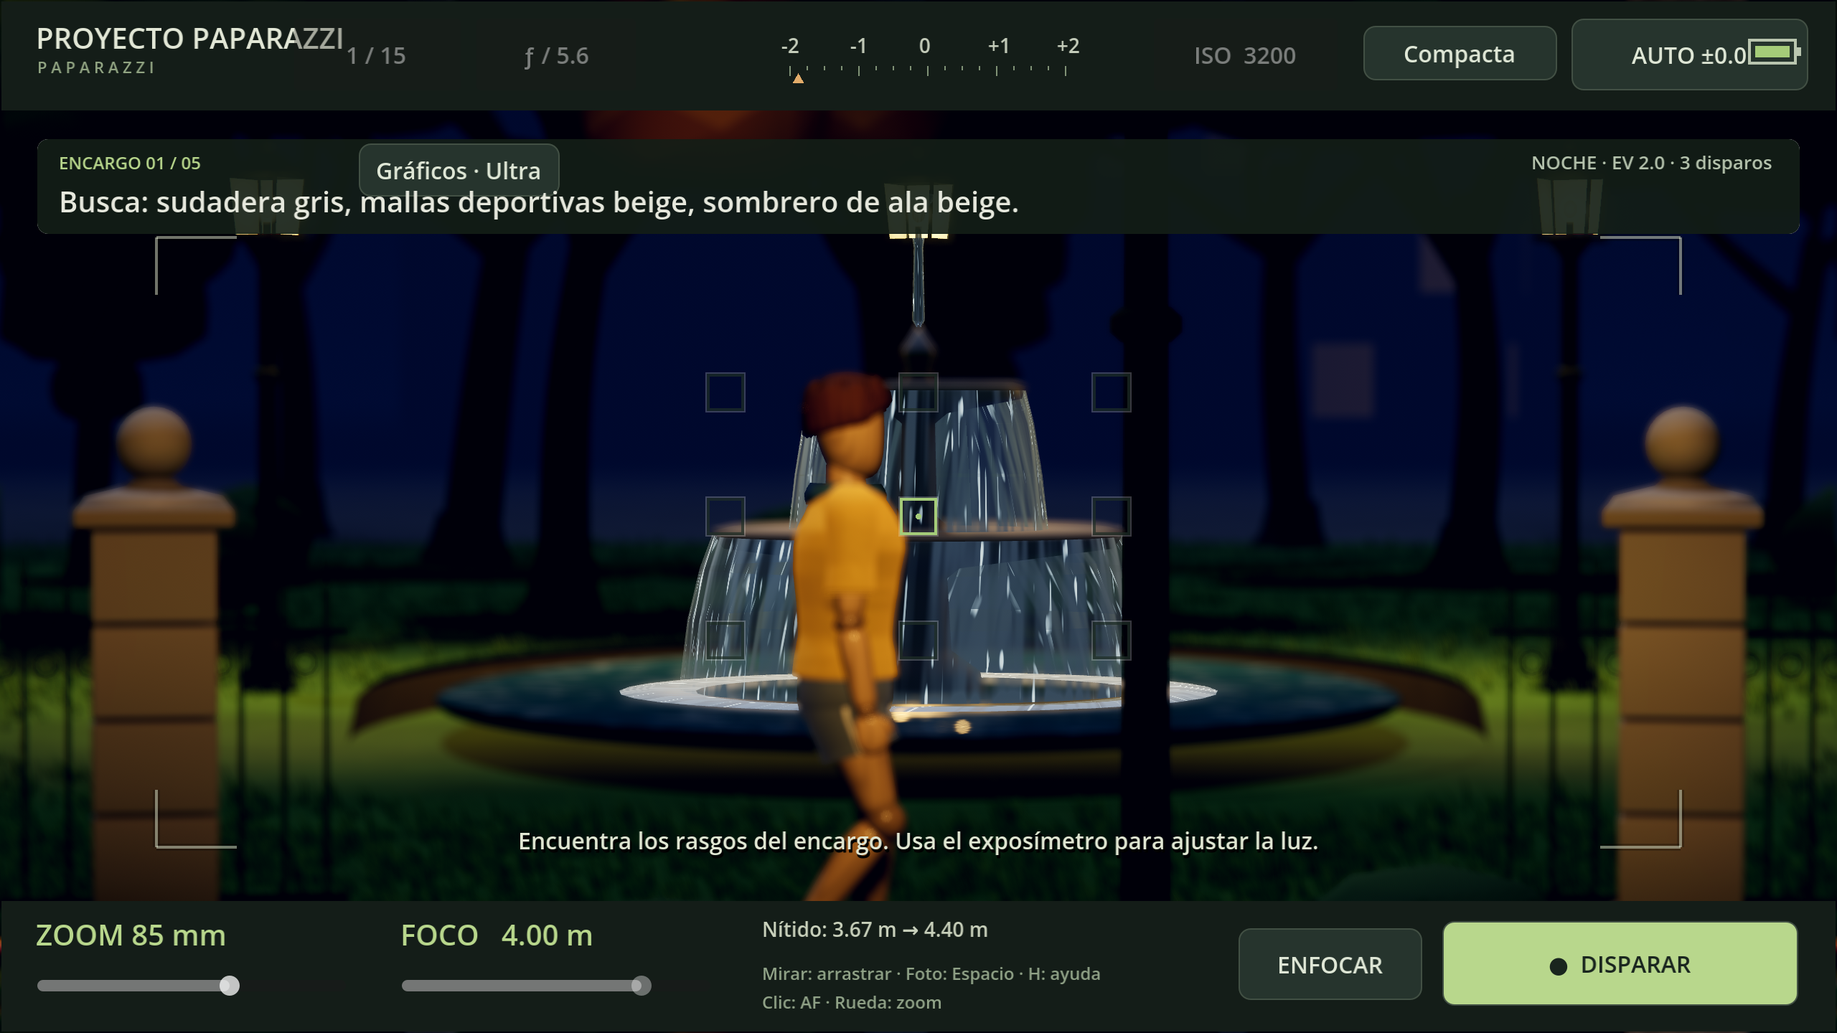
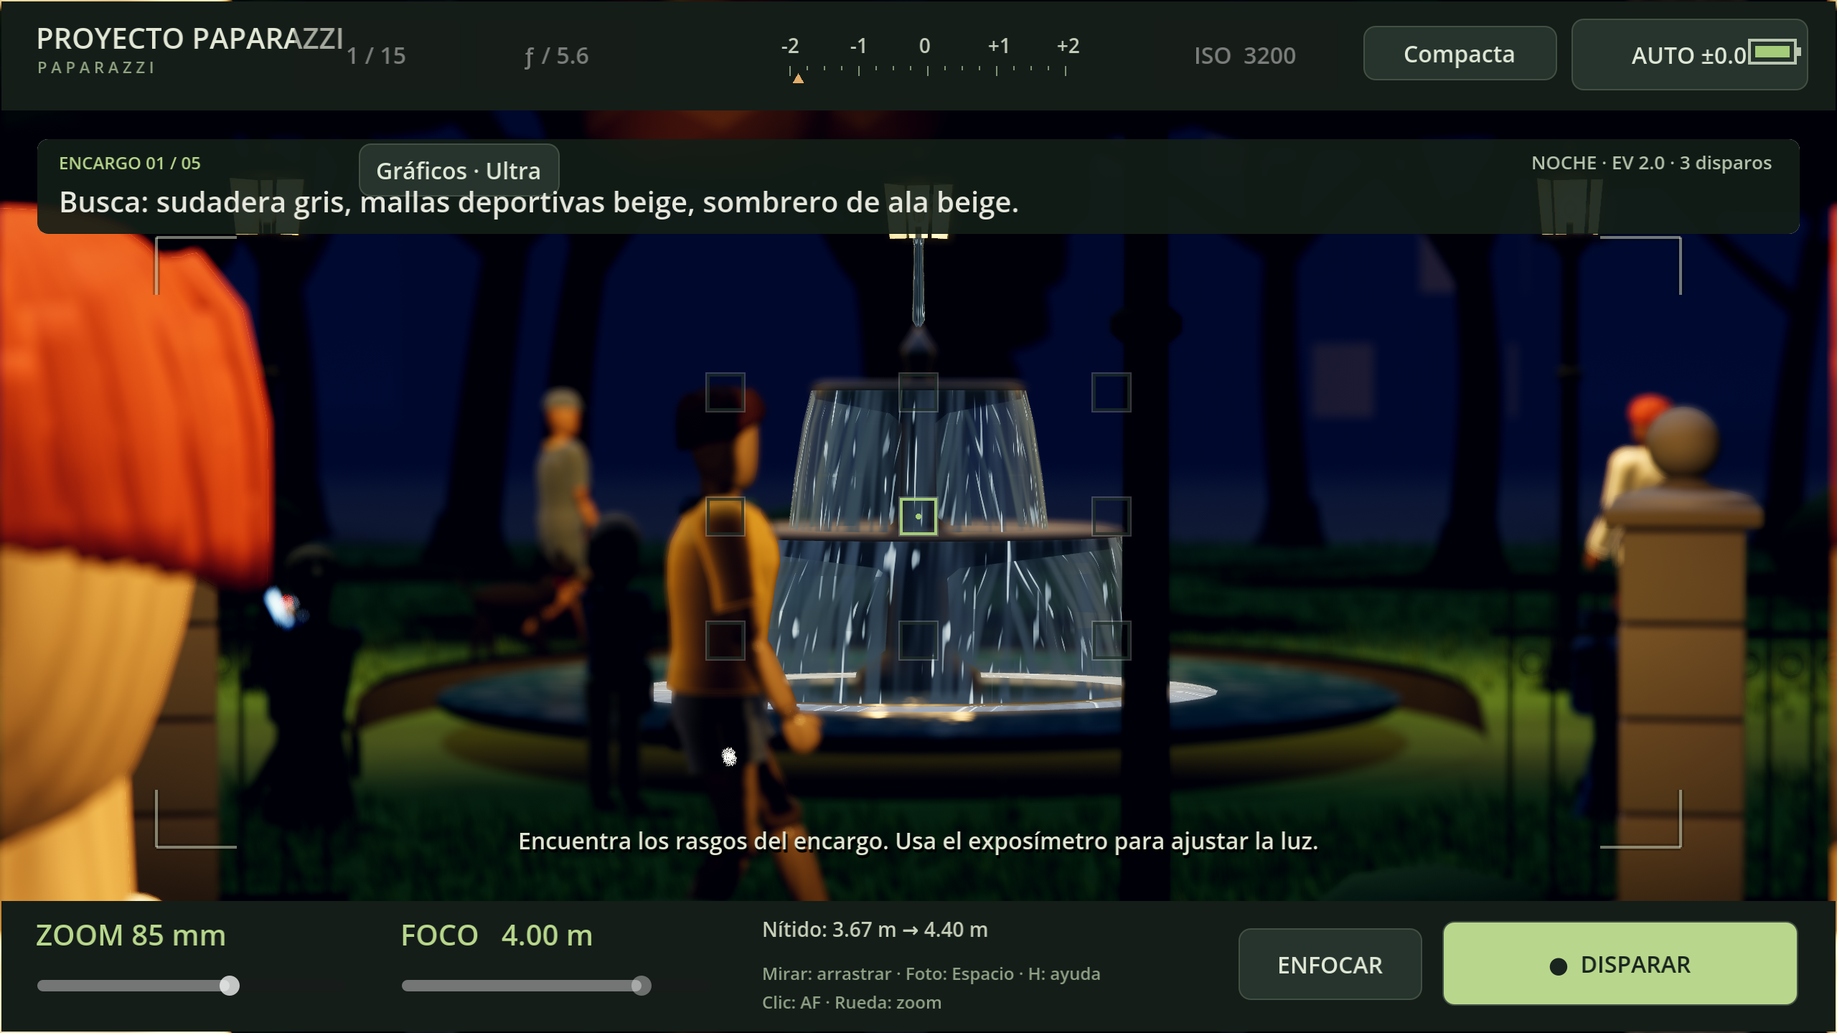
feat: palomas nocturnas, migas, niño con balón, falda sentada y vídeo de evidencias con vida
- Palomas duermen en los árboles de noche; migas al echar de comer
- Figurante niño jugando con un balón; pícnic, turista y balón se recogen de noche
- La falda sentada relaja sus muelles y cae entre las rodillas; periódico sujeto por los bordes
- capture_video.sh: tres secuencias de vida del parque, audio del juego bajo la música,
  --disable-vsync; capture_ultra.sh con tres tomas nuevas; evidencias regeneradas
- test_crowd mide el reparto de estados; test_park_life comprueba la noche

diff --git a/docs/TESTS_Y_VERIFICACION.md b/docs/TESTS_Y_VERIFICACION.md
@@ -59,8 +59,8 @@ Los cuatro perfiles de escritorio usan el renderizador `forward_plus` (`project.
 | Suite | Comando | Qué valida | Línea de salida |
 |---|---|---|---|
 | **Navegación** | `godot-4 --path . --script tests/test_navigation.gd` | Cruce en sentidos opuestos en el carril 1, adelantamiento de un corredor a un caminante y desvío ante un obstáculo estático | `NAVIGATION TESTS: N checks, N failures` |
-| **Multitud (60 s)** | `~/bin/godot-4-fp --path . --disable-vsync --script tests/test_crowd.gd` | 1.800 pasos a 30 Hz con los 21 viandantes: la orientación gira como mucho $125^\circ/\text{s}$ (sin saltos), nadie invierte su desplazamiento lateral dos veces en menos de 1,5 s (sin temblequeo), dos caminantes nunca quedan a menos de 0,42 m y nadie sigue atascado al final. Con `CROWD_DEBUG=1` imprime cada inversión rápida | `CROWD: max turn …°/s, worst quick lateral reversals …, min gap … m, mean walking speed … m/s, jammed …` y `CROWD TESTS: N checks, N failures` |
-| **Vida en el parque** | `~/bin/godot-4-fp --path . --disable-vsync --script tests/test_park_life.gd` | Siguen siendo 21 viandantes; figurantes fuera de la lista, sin colisionadores y más allá de 12,8 m también andando; palomas sin colisionadores, baratas y en el suelo; perro con dueño, con colisionador fuera de la capa 2 y etiquetado, dentro de la correa; ciclo completo del banco (acercarse, sentarse mirando al camino con la cadera en el asiento, levantarse y liberarlo) sin teletransportes (< 6 cm por fotograma); dos caminantes que se cruzan se paran a charlar frente a frente; cada actividad muestra su objeto de mano, sin colisionadores, y lo oculta al acabar; la luz del móvil no proyecta sombras. Con `LIFE_DEBUG=1` traza la aproximación al banco | `PARK LIFE TESTS: N checks, N failures` |
+| **Multitud (60 s)** | `~/bin/godot-4-fp --path . --disable-vsync --script tests/test_crowd.gd` | 1.800 pasos a 30 Hz con los 21 viandantes: la orientación gira como mucho $125^\circ/\text{s}$ (sin saltos), nadie invierte su desplazamiento lateral dos veces en menos de 1,5 s (sin temblequeo), dos caminantes nunca quedan a menos de 0,42 m, nadie sigue atascado al final y al menos el 60 % del tiempo la gente camina (imprime el reparto de estados). Con `CROWD_DEBUG=1` imprime cada inversión rápida | `CROWD: max turn …°/s, worst quick lateral reversals …, min gap … m, mean walking speed … m/s, jammed …` y `CROWD TESTS: N checks, N failures` |
+| **Vida en el parque** | `~/bin/godot-4-fp --path . --disable-vsync --script tests/test_park_life.gd` | Siguen siendo 21 viandantes; figurantes fuera de la lista, sin colisionadores y más allá de 12,8 m también andando; palomas sin colisionadores, baratas y en el suelo; perro con dueño, con colisionador fuera de la capa 2 y etiquetado, dentro de la correa; ciclo completo del banco (acercarse, sentarse mirando al camino con la cadera en el asiento, levantarse y liberarlo) sin teletransportes (< 6 cm por fotograma); dos caminantes que se cruzan se paran a charlar frente a frente; cada actividad muestra su objeto de mano, sin colisionadores, y lo oculta al acabar; la luz del móvil no proyecta sombras; de noche las palomas duermen en los árboles, se recogen pícnic, turista y balón y las pantallas brillan al máximo. Con `LIFE_DEBUG=1` traza la aproximación al banco | `PARK LIFE TESTS: N checks, N failures` |
 | **Atascos (20 s)** | `godot-4 --path . --script tests/simulate_jams.gd` | 400 pasos a $\Delta t = 0.05\text{ s}$ sin jugador. Éxito: **0 viandantes con `stuck_time > 0.8 s`** | `Deadlocked pedestrians (stuck_time > 0.8s): N` |
 | **Expansión** | `godot-4 --path . --script tests/test_expansion.gd` | Pantalla de encargo, ropa deportiva de corredores, nubes y EV, bloqueo de ISO con carrete y sandbox. Guarda capturas en `/tmp/paparazzi-*.png` | `EXPANSION TESTS: N checks, N failures` |
 | **Sesión completa** | `godot-4 --path . --script tests/test_game.gd` | 5 encargos, entrada, disparo, revelado, flujo de pantallas, **VRAM del perfil** (60.000.000 bytes en `gl_compatibility`, 8 GiB en Forward+), perfil inicial y nivel de detalle según el renderizador, superficies del parque fusionado (≤ 40 en `lo`, ≤ 80 en `hd` por el suelo texturizado) y suelo texturizado solo en `hd`. Guarda capturas en `/tmp/paparazzi-*.png` | `SESSION VIDEO MEMORY: …` y `GAME TESTS: N checks, N failures` |
@@ -106,8 +106,8 @@ Se pasan tras `--` (`godot-4 --path . -- <opción>`):
 | `capture_characters.gd` | `~/bin/godot-4-fp --path . --disable-vsync --rendering-method forward_plus --resolution 800x1000 --script tools/capture_characters.gd -- [--only=torsos,cabezas] [--out=<dir>]` | Hojas de modelado de personajes en `docs/evidencias/personajes_modelado/`: catálogo por ranura en cuatro vistas, perfiles, articulaciones en marcha, ciclos, sentado, `09_dinamica` (andar y pararse en seco, para el movimiento de falda, pelo y bolso) y `10_actividades` (posturas y objetos de mano de la vida en el parque). Deja reposar los muelles antes de cada vista. **Con la ventana tapada en Wayland se cuelga si no se pasa `--disable-vsync`** (el compositor deja de dar fotogramas). |
 | `audio/build_ambience.py` | `python3 tools/audio/build_ambience.py` | Sintetiza el sonido ambiente en `assets/audio/ambiente/` (pájaros, fuente, grillos, viento, ciudad, zureo y aleteo; WAV mono de 22,05 kHz). Requiere numpy y scipy. Ver [ESCENARIO_Y_RENDIMIENTO.md §3.4](ESCENARIO_Y_RENDIMIENTO.md). |
 | `blender/build_characters.py` | `blender -b --factory-startup -P tools/blender/build_characters.py -- [--only <perfil>] [--slots <ranuras>]` | Genera maniquíes, ropa, pelucas y accesorios de escritorio en `data/piezas_hd/` ([futuro/18](futuro/18_PERSONAJES_BLENDER.md)). La simulación de tela de la falda hace que los cuatro perfiles tarden unos 2,5 min. |
-| `capture_video.sh` | `./tools/capture_video.sh [--only 1,3] [--res 1920x1080] [--out <mp4>]` | **Vídeo de evidencias bajo demanda, solo para cambios grandes.** Graba 8 secuencias de 15 s con el Movie Maker de Godot (`--write-movie`, 30 FPS fijos: el resultado no depende de la velocidad del equipo) en día, hora dorada y noche, con gran angular, teleobjetivo siguiendo a un viandante, zoom y paneos, y una última con la **telemétrica de 90 mm en enfoque manual**: gira el anillo hasta alinear la imagen partida, mide la luz del sujeto, dispara y muestra el revelado puntuado (94/100 en la prueba). Las monta con ffmpeg (libx264) en un MP4 rotulado de 2 min en `build/video/` (ignorado por git), con la **música de fondo del proyecto** (`assets/audio/musica_videos.mp3`, o la variable `MUSIC`) recortada a la duración del vídeo con fundido de entrada de 1 s y de salida en los últimos 10 s. Tarda unos 6 min. |
-| `capture_ultra.sh` | `./tools/capture_ultra.sh` | Capturas de Ultra a 2560 × 1440 en `docs/evidencias/ultra/` (lo llama `run_evidence.sh`; se omite si no hay Godot con Vulkan en `GODOT_FP` o `~/bin/godot-4-fp`). |
+| `capture_video.sh` | `./tools/capture_video.sh [--only 1,3] [--res 1920x1080] [--out <mp4>]` | **Vídeo de evidencias bajo demanda, solo para cambios grandes.** Graba 8 secuencias de 15 s con el Movie Maker de Godot (`--write-movie`, 30 FPS fijos: el resultado no depende de la velocidad del equipo) en día, hora dorada y noche, con gran angular, teleobjetivo siguiendo a un viandante y paneos; tres de ellas enseñan la **vida del parque** (bancos, palomas y perro con `--advance`; figurantes de la pradera a 70 mm; móviles que iluminan caras de noche con `--activity=movil`), y la última usa la **telemétrica de 90 mm en enfoque manual**: gira el anillo hasta alinear la imagen partida, mide la luz del sujeto, dispara y muestra el revelado puntuado (94/100 en la prueba). Las monta con ffmpeg (libx264) en un MP4 rotulado de 2 min en `build/video/` (ignorado por git), con la **música de fondo del proyecto** (`assets/audio/musica_videos.mp3`, o la variable `MUSIC`) recortada a la duración del vídeo con fundido de entrada de 1 s y de salida en los últimos 10 s, mezclada sobre el sonido del juego (ambiente del parque y clic del obturador; el autofoco guionizado no pita). Tarda unos 6 min. |
+| `capture_ultra.sh` | `./tools/capture_ultra.sh` | Capturas de Ultra a 2560 × 1440 en `docs/evidencias/ultra/`, incluidas tres de la vida del parque (`10_banco_palomas`, `11_picnic_hora_dorada` y `12_moviles_noche`, con `--advance` y `--activity`) (lo llama `run_evidence.sh`; se omite si no hay Godot con Vulkan en `GODOT_FP` o `~/bin/godot-4-fp`). |
 | `preview_gait.gd` | `godot-4 --path . --script tools/preview_gait.gd` | Visor interactivo de la marcha. |
 
 ---
@@ -126,8 +126,8 @@ Medidas el **2026-09-27** con **Godot 4.7-stable** (Linux; suites con display en
 | Comprobaciones de marcha | 8.840, 0 fallos | 0 fallos | `test_gait.gd` |
 | Deriva máxima del pie de apoyo | 0.000000 m/fotograma | 0 | `test_gait.gd` |
 | Comprobaciones de navegación | 10, 0 fallos (marcha suave, 2026-09-30) | 0 fallos | `test_navigation.gd` |
-| Multitud en 60 s | giro máximo 120°/s · 1 inversión lateral rápida en el peor caso · separación mínima 0,58 m · 0,64 m/s de media andando · 0 atascados (2026-09-30) | ≤ 125°/s · ≤ 2 · ≥ 0,42 m · 0 | `test_crowd.gd` |
-| Comprobaciones de vida en el parque | 116, 0 fallos (2026-09-30) | 0 fallos | `test_park_life.gd` |
+| Multitud en 60 s | giro máximo 120°/s · 1 inversión lateral rápida en el peor caso · separación mínima 0,58 m · 0,64 m/s de media andando · 0 atascados · 74 % del tiempo caminando, 12 % parados y 14 % sentados (2026-09-30) | ≤ 125°/s · ≤ 2 · ≥ 0,42 m · 0 · ≥ 60 % caminando | `test_crowd.gd` |
+| Comprobaciones de vida en el parque | 125, 0 fallos (2026-09-30) | 0 fallos | `test_park_life.gd` |
 | Viandantes atascados tras 20 s | 0 en Linux (2026-09-27 y de nuevo el 2026-09-30 con la marcha suave y el carril 0 ensanchado) · 1 en Windows con Intel Iris Xe (2026-09-29, código anterior) | 0 | `simulate_jams.gd` |
 | Comprobaciones de expansión | 140, 0 fallos | 0 fallos | `test_expansion.gd` |
 | Comprobaciones de sesión | Forward+: 52, 0 fallos (incluye pesos suaves de la ropa `hd`) · `gl_compatibility` (escena de Android): 48, 1 fallo, el de VRAM (58,37 MiB) (con `--disable-vsync`; 2026-09-30, RX 6700 XT) | 0 fallos | `test_game.gd` |
@@ -136,7 +136,7 @@ Medidas el **2026-09-27** con **Godot 4.7-stable** (Linux; suites con display en
 | VRAM en sesión completa | `gl_compatibility`: **59,91 MiB** (texturas 40,93 · buffers 18,98), **supera** el límite desde el parque de Blender y la pradera; pendiente de optimizar ([futuro/17 §6](futuro/17_SALTO_GRAFICO_ULTRA.md)) · Forward+ Ultra: 1.104 MiB en `test_game.gd`, 1.509 MiB en `--metrics` a 1440p | 60.000.000 bytes en `gl_compatibility` · 8 GiB en Ultra | `test_game.gd`, `--metrics` |
 | Triángulos en escena (21 viandantes + parque) | `lo` (Android y respaldo sin Vulkan): 94.112 (2026-09-30, tras dibujar en `lo` solo parte de los árboles lejanos; antes había subido a 108.498) · `hd`: ver la fila siguiente | `lo` ≤ 100.000 · `hd` ≤ 5.000.000 | `--smoke-test` (`--rendering-method gl_compatibility` para `lo`) |
 | Triángulos por maniquí `hd` (máximo en escena) | 41.436 (maniquíes de Blender con peluca y ropa; 2026-09-30) | ≤ 60.000 | `--smoke-test` en Forward+ |
-| Triángulos en escena `hd` | 3.391.125 con 14 figurantes y 18 palomas (2.915.193 sin ellos; 2026-09-30) | ≤ 5.000.000 | `--smoke-test` en Forward+ |
+| Triángulos en escena `hd` | 3.424.785 con 15 figurantes y 18 palomas (2.915.193 sin ellos; 2026-09-30) | ≤ 5.000.000 | `--smoke-test` en Forward+ |
 | Tiempo de GPU de Ultra a 2560 × 1440 (RX 6700 XT, sin vsync) | día 10,30 ms (p95 10,52) · noche 11,80 ms (p95 12,10), con profundidad de campo, LUT y carácter de objetivo; sin la profundidad de campo, 7,27 y 8,86 ms (2026-09-30) | Objetivo ≤ 12 ms de día y ≤ 16 ms de noche | `--metrics` (Forward+) |
 | Draw calls del visor 3D (perfil Ultra, día) | 119 en `--metrics` · 85 en `test_game.gd` (2026-09-29, Windows, Intel Iris Xe; antes del paso 1, 1.790) | ≤ 300 de día | `--metrics`, `test_game.gd` |
 | Tiempo de fotograma (perfil Ultra, día) | mediana 16,67 ms · p95 16,67 ms, limitado por sincronía vertical (2026-09-29, Intel Iris Xe; antes 20,22 ms) | Objetivo 16,7 ms (60 FPS), sin umbral automatizado | `--metrics` |

diff --git a/docs/futuro/19_VIDA_EN_EL_PARQUE.md b/docs/futuro/19_VIDA_EN_EL_PARQUE.md
@@ -22,6 +22,7 @@ Detalle en [NAVEGACION_Y_COLISIONES.md §3](../NAVEGACION_Y_COLISIONES.md). En r
 - **Paradas con actividad**: se para frenando (`pending_stop`) y mira al paisaje mientras hace algo (`mirar`, `movil`, `foto`, `cafe`). Dos caminantes que se cruzan pueden **pararse a charlar** frente a frente.
 - **Sentados**: leen el periódico, miran el móvil, toman café, echan migas a las palomas o descansan.
 - **Andando**: a veces sacan el móvil y caminan más despacio mirándolo.
+- **Reparto medido** en 60 s de multitud: el 74 % del tiempo caminando, el 12 % parados y el 14 % sentados (`test_crowd.gd` exige al menos un 60 % caminando).
 - **Capa de actividades** (`gait.gd::activity`): tren superior mezclado con peso `act_w`; las piernas no se tocan.
 - **Objetos de mano** (`person.gd::make_prop`): teléfono, periódico con texto procedural, cámara, vaso de café y bolsa de pan. Se construyen al usarse, en la mano (`BoneAttachment3D`), sin colisionadores. **El móvil ilumina la cara** con una luz pequeña sin sombras, más intensa de noche (petición del usuario durante la sesión).
 
@@ -44,14 +45,17 @@ En el suelo miden menos de 0,3 m y no tienen colisionadores. Solo en `hd`.
 
 ## 5. Figurantes de la pradera
 
-`scripts/extras.gd`: 14 personas en las dos aberturas de la verja (quiosco y estanque):
+`scripts/extras.gd`: 15 personas en las dos aberturas de la verja (quiosco y estanque):
 
 - paseantes en bucle, uno de ellos con perro;
 - un pícnic con manta de cuadros y cesta;
 - dos amigas charlando;
 - un turista fotografiando el quiosco;
 - gente leyendo o con el móvil sentada en la hierba;
-- un niño mirando el agua.
+- un niño mirando el agua;
+- otro niño jugando con un balón junto al quiosco.
+
+De noche se recogen el pícnic, el turista y el juego de balón (`extras.set_time_of_day()`), y las palomas duermen en los árboles.
 
 Son `Pedestrian` con `ambient = true`: solo se construye la malla visual, sin colisionadores. No están en `main.people`, así que nunca son objetivo ni entran en el sorteo de rasgos. Viven más allá de r = 12,8 m. Solo en `hd`: en Android no caben en los 100.000 triángulos.
 
@@ -69,7 +73,7 @@ Son `Pedestrian` con `ambient = true`: solo se construye la malla visual, sin co
 | Figurantes | ✅ | — | no |
 | Sonido ambiente | ✅ | ✅ | — |
 
-Triángulos medidos: 3.391.125 en `hd` y 94.112 en `lo` ([TESTS_Y_VERIFICACION.md §5](../TESTS_Y_VERIFICACION.md)). Para que Android cupiera, `lo` dibuja ahora solo parte de los árboles lejanos (los colisionadores siguen todos). El presupuesto ya se pasaba (108.498) antes de esta sesión.
+Triángulos medidos: 3.424.785 en `hd` y 94.112 en `lo` ([TESTS_Y_VERIFICACION.md §5](../TESTS_Y_VERIFICACION.md)). Para que Android cupiera, `lo` dibuja ahora solo parte de los árboles lejanos (los colisionadores siguen todos). El presupuesto ya se pasaba (108.498) antes de esta sesión.
 
 ## 8. Criterios de aceptación y pruebas
 
@@ -80,6 +84,7 @@ Triángulos medidos: 3.391.125 en `hd` y 94.112 en `lo` ([TESTS_Y_VERIFICACION.m
 
 ## 9. Pendiente y mejoras posibles
 
+- **Falda sentada** (hecho a medias): sus cadenas cuelgan de los muslos y con rigidez 2,6 se quedaban tiesas en horizontal al sentarse. Ahora `person.gd::update_skirt_springs()` baja la rigidez a 0,25 y sube la gravedad a 2,5 según `seat`, y la tela cae entre las rodillas. Falta un colisionador del asiento para la parte de atrás.
 - Migas visibles (partículas) al echar de comer y palomas que se posan en la verja.
 - Más razas de perro y algún perro con los figurantes del quiosco.
 - Voces lejanas y risas de niños (difíciles de sintetizar con naturalidad; mejor con muestras CC0 si el usuario lo aprueba).

diff --git a/docs/ESCENARIO_Y_RENDIMIENTO.md b/docs/ESCENARIO_Y_RENDIMIENTO.md
@@ -57,7 +57,7 @@ El escenario es un parque urbano procedural concéntrico de $45\text{ m}$ de rad
 
 ### 2.2.bis Vida en la pradera y en el parque (desde el 30-09-2026)
 Detalle en [futuro/19_VIDA_EN_EL_PARQUE.md](futuro/19_VIDA_EN_EL_PARQUE.md). Resumen:
-- **Figurantes** (`scripts/extras.gd`, solo `hd`): 14 personas en las dos aberturas de la verja. Pasean alrededor del quiosco y del estanque (una de ellas con perro), hacen un pícnic con manta de cuadros y cesta, charlan, hacen fotos al quiosco, leen o miran el móvil sentadas en la hierba y hay un niño mirando el agua. Viven más allá de $r = 12.8\text{ m}$, **no tienen colisionadores** y no están en `main.people`: nunca son objetivo ni tapan una foto a efectos de puntuación.
+- **Figurantes** (`scripts/extras.gd`, solo `hd`): 15 personas en las dos aberturas de la verja. Pasean alrededor del quiosco y del estanque (una de ellas con perro), hacen un pícnic con manta de cuadros y cesta, charlan, hacen fotos al quiosco, leen o miran el móvil sentadas en la hierba, hay un niño mirando el agua y otro jugando con un balón. De noche se recogen el pícnic, el turista y el juego de balón, y las palomas duermen en los árboles. Viven más allá de $r = 12.8\text{ m}$, **no tienen colisionadores** y no están en `main.people`: nunca son objetivo ni tapan una foto a efectos de puntuación.
 - **Palomas** (`scripts/pigeons.gd`, solo `hd`): dos bandadas de 9 en el anillo de césped de $r = 5.1$–$6.0\text{ m}$, dibujadas con 3 `MultiMesh` (cuerpo, cabeza y alas: 3 draw calls). Picotean, cabecean, se apartan a saltitos de la gente y del perro, a veces (probabilidad 0,3 por paso) huyen volando a los árboles cuando pasa un corredor y vuelven al cabo de 8–16 s, y acuden a quien les echa migas desde un banco. Miden menos de 0,3 m en el suelo y no tienen colisionadores.
 - **Perro** (`scripts/dog.gd`): un viandante del carril 1 lo pasea con correa. Tiene colisionador en la capa 1 con la etiqueta `un_perro`, para que tape en las fotos lo que tapa en pantalla; la navegación (máscara 2) no lo ve.
 - **Sonido ambiente** (`scripts/ambience.gd`): ver §3.4.

diff --git a/AGENTS.md b/AGENTS.md
@@ -115,7 +115,7 @@ Los comandos de todas las suites, qué valida cada una, las opciones de arranque
 - **¿Cómo cambio o regenero el sonido ambiente?**  
   Edita `tools/audio/build_ambience.py` y ejecuta `python3 tools/audio/build_ambience.py` (escribe `assets/audio/ambiente/*.wav`). Dónde suena cada uno y a qué volumen está en `scripts/ambience.gd`. Graba una prueba con `--write-movie` y mide el nivel con `ffmpeg -af volumedetect`.
 - **¿Cómo genero el vídeo de evidencias?**  
-  `./tools/capture_video.sh` (≈6 min, MP4 de 2 min en `build/video/`, con 8 secuencias en día, hora dorada y noche, y una telemétrica en enfoque manual que dispara y muestra el revelado). **Música de fondo de todos los vídeos del proyecto: `assets/audio/musica_videos.mp3`** (del usuario), con fundido de salida en los últimos 10 s. Solo bajo demanda y para cambios grandes. Detalle en [docs/TESTS_Y_VERIFICACION.md §4.2](docs/TESTS_Y_VERIFICACION.md).
+  `./tools/capture_video.sh` (≈6 min, MP4 de 2 min en `build/video/`, con 8 secuencias en día, hora dorada y noche, tres de ellas de la vida del parque, y una telemétrica en enfoque manual que dispara y muestra el revelado). El audio es la música mezclada sobre el sonido del juego. **Música de fondo de todos los vídeos del proyecto: `assets/audio/musica_videos.mp3`** (del usuario), con fundido de salida en los últimos 10 s. Solo bajo demanda y para cambios grandes. Detalle en [docs/TESTS_Y_VERIFICACION.md §4.2](docs/TESTS_Y_VERIFICACION.md).
 - **¿Cómo veo Ultra?**  
   `~/bin/godot-4-fp --path . --rendering-method forward_plus --resolution 2560x1440 -- --screenshot=/tmp/x.png --angle=120 --pitch=3 --focal=24 --time=day`, o `./tools/capture_ultra.sh`. Mide con `-- --metrics` (imprime `METRICS_GPU`).
 - **¿Cómo cambio la ropa, el pelo o el maniquí de escritorio?**  

diff --git a/docs/PERSONAJES_Y_CINEMATICA.md b/docs/PERSONAJES_Y_CINEMATICA.md
@@ -178,6 +178,8 @@ Añadido el 30-09-2026 con la vida en el parque ([futuro/19_VIDA_EN_EL_PARQUE.md
 ### 4.bis.1 Sentarse y levantarse (`gait.gd::sit`)
 `p.seat` pasa de 0 a 1 en $1.3\text{ s}$ mientras el estado es `SENTADO` (y vuelve a 0 en `LEVANTANDO`). La postura se resuelve con la misma cinemática inversa de la marcha (`solve_leg`): la cadera baja de su altura de pie a la del asiento (`max(0.47, b + suela)`) y los pies se quedan donde estaban, mientras `main.gd` lleva la raíz hacia atrás la longitud del muslo, del borde del banco ($r = 4.60\text{ m}$) al centro del asiento. El tronco se inclina hacia delante al bajar y al subir ($-0.38\cdot\sin(\pi e)$) y queda erguido una vez sentado. Las piernas cortas (el perfil infantil) no llegan al suelo: el muslo descansa en el asiento y la espinilla cuelga.
 
+**Falda sentada**: las cadenas de la falda son hijas de los muslos; mientras dura la postura, `person.gd::update_skirt_springs()` relaja su rigidez (2,6 → 0,25) y sube su gravedad (0,15 → 2,5), y la tela cae entre las rodillas en vez de quedarse tiesa sobre los muslos.
+
 **Sentado en el suelo** (`seat_kind = "suelo"`, figurantes de la pradera): la cadera baja a $0.075\cdot nz$, las piernas se estiran hacia delante con las rodillas algo levantadas y los brazos se apoyan detrás.
 
 ### 4.bis.2 Capa de actividades (`gait.gd::activity`)
